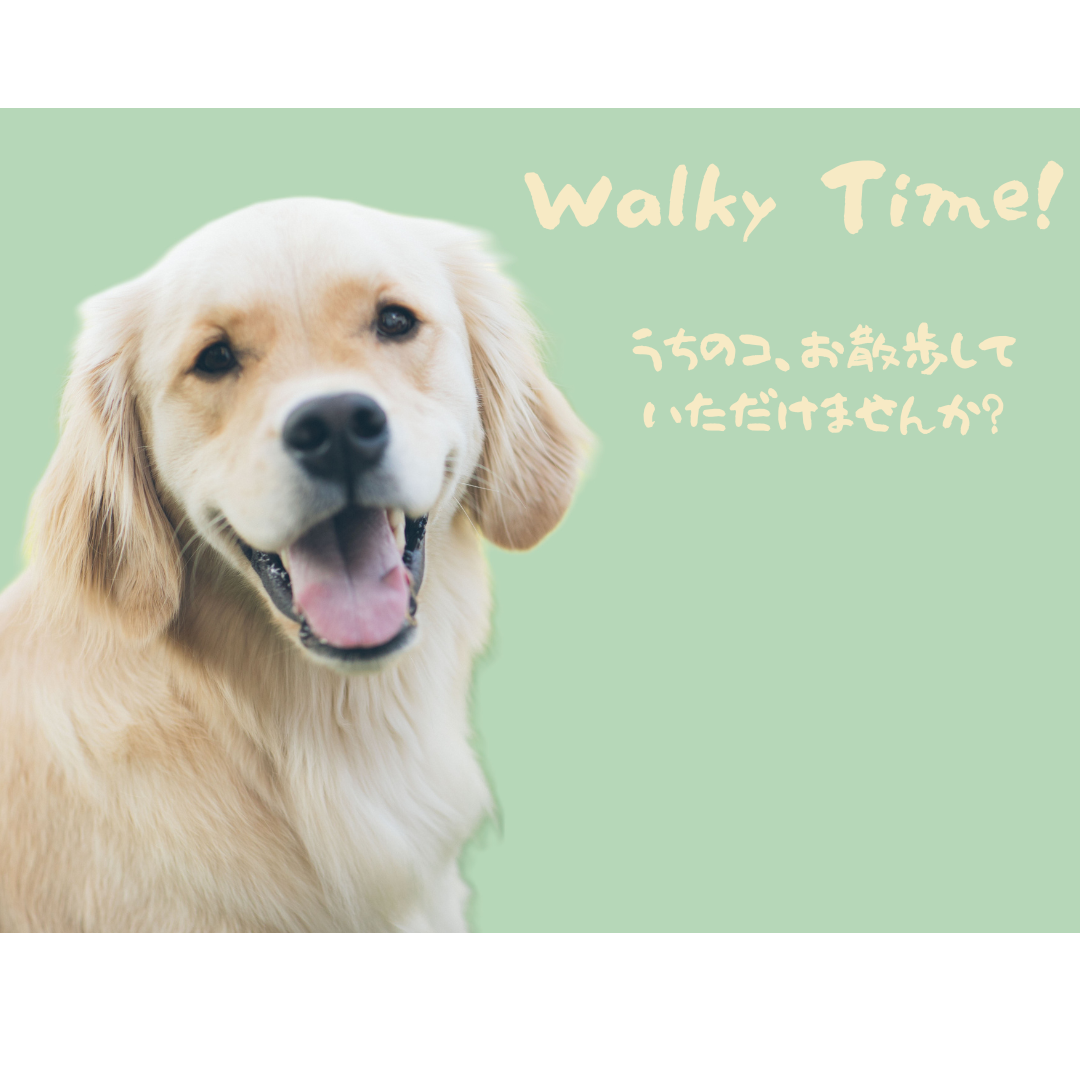
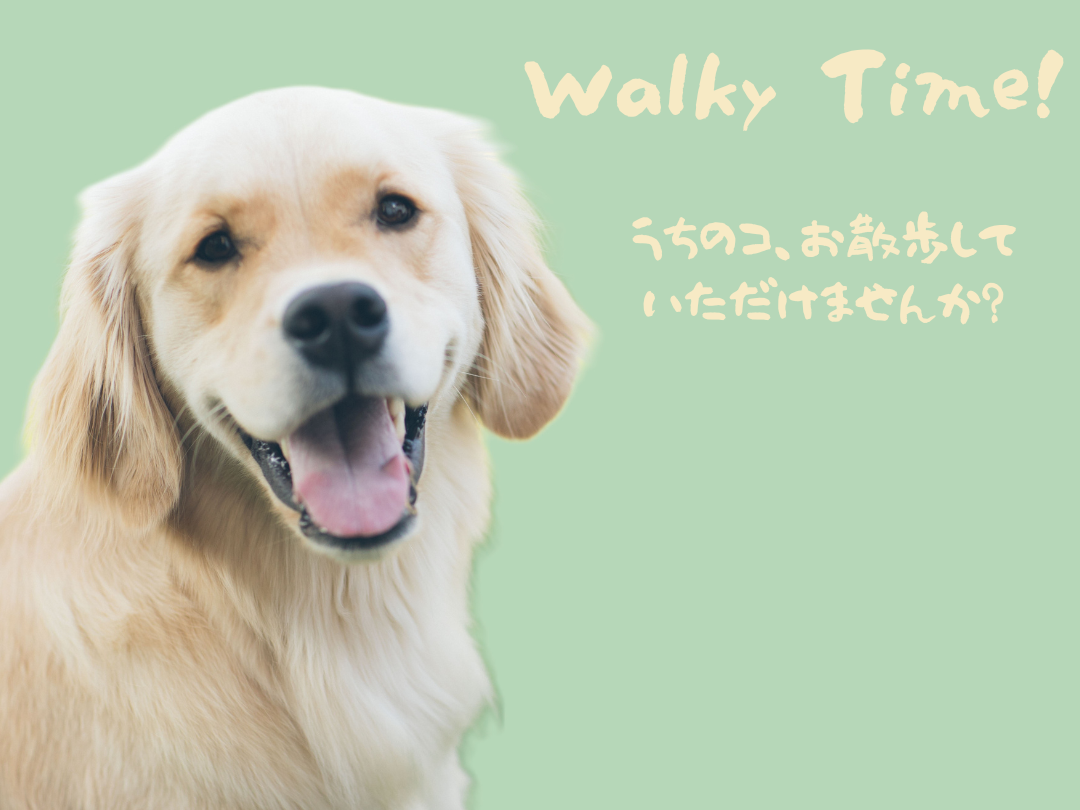
レイアウト

diff --git a/app/javascript/stylesheets/application.scss b/app/javascript/stylesheets/application.scss
@@ -9,9 +9,9 @@ body {
   color: #8d6e62;
 }
 
-header {
-  margin-left: 20px;
-  margin-right: 20px;
+.top{
+  text-decoration: none;
+  color: #48120E ;
 }
 
 .main_visual{
@@ -20,13 +20,27 @@ header {
 
 .main_visual_image{
   width: 150%;
-  height: 600px;
+  height: 700px;
+}
 
+.text{
+  position: absolute;
+  top: 50%;
+  left: 50%;
+  transform: translate(-50%,-50%);
+  background-color: rgba(255,255,255,0.4);
+  width: 50%;
+  height: 150px;
+  display: flex;
+  align-items: center;
+  justify-content: center;
+  text-shadow: 2px 2px 0px white;
 }
 
 .post-card-img {
   width: 100%;
   height: 250px;
+  border-radius: 50%;
   object-fit: cover;
 }
 
@@ -38,3 +52,18 @@ header {
   }
 }
 
+a {
+  color: #8d6e62; /* ここに適切な色コードを指定します */
+  /* 他のスタイルも追加できます */
+}
+
+/* リンクがホバー（マウスが重なったとき）したときのスタイル */
+a:hover {
+  color : #ffaa00; /* ホバー時にアンダーラインを表示 */
+  /* 他のホバー時のスタイルも追加できます */
+}
+
+.alert-message {
+  color: red;
+  font-weight: bold;
+}

diff --git a/app/assets/stylesheets/application.css b/app/assets/stylesheets/application.css
@@ -1,5 +1,5 @@
 body {
-  padding-top: 100px
+  padding-top: 50px
 }
 
 
@@ -13,6 +13,9 @@ body {
   bottom: 30px;
   opacity: 0.8;
 }
+
+
+
 /*
  * This is a manifest file that'll be compiled into application.css, which will include all the files
  * listed below.

diff --git a/app/controllers/public/comments_controller.rb b/app/controllers/public/comments_controller.rb
@@ -1,4 +1,6 @@
 class Public::CommentsController < ApplicationController
+  before_action :authenticate_user!, only: [:create]
+  
   def new
   end
 
@@ -12,7 +14,14 @@ class Public::CommentsController < ApplicationController
 
   def destroy
     comment = Comment.find(params[:id])
-    comment.destroy
+    if comment.user == current_user
+      comment.destroy
+      flash[:notice] = 'コメントが削除されました'
+    else
+      flash[:alert] = '権限がありません'
+    end
+    redirect_to request.referer
+    # その場に留まる
   end
 
   private
